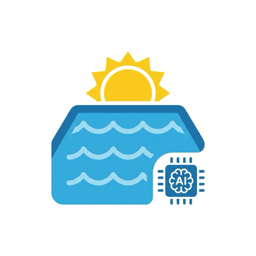
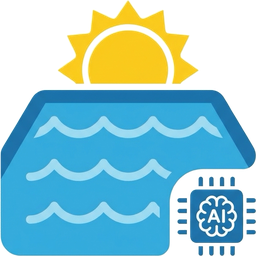
docs: README con ícono propio e historial hasta v0.0.10
- README: el logo apunta a brand/icon@2x.png del repo (la integración
  no está en brands.home-assistant.io)
- Historial de versiones: agregar 0.0.7 a 0.0.10
- brands_assets: actualizar con los PNG transparentes nuevos
- Eliminar submit_brand.sh: desde HA 2026.3 las integraciones custom
  ya no van al repo home-assistant/brands
- Guía de desarrollo: documentar la carpeta brand/

diff --git a/README.md b/README.md
@@ -1,7 +1,7 @@
 # SolarPool AI (Home Assistant Custom Component)
 
 <p align="center">
-  <img src="icon.png" alt="SolarPool AI Icon" width="128">
+  <img alt="SolarPool AI Icon" src="https://raw.githubusercontent.com/pabloantonelli/solar-pool-ai/main/custom_components/solarpool_ai/brand/icon@2x.png" width="128">
 </p>
 
 [![hacs_badge](https://img.shields.io/badge/HACS-Custom-41BDF5.svg)](https://github.com/hacs/integration)
@@ -203,6 +203,10 @@ stateDiagram-v2
 
 | Versión | Cambios principales |
 |---------|---------------------|
+| **0.0.10** | 🎨 **Ícono propio**: La integración incluye su ícono en `brand/` (PNG transparente); Home Assistant 2026.3+ lo muestra automáticamente. |
+| **0.0.9** | 🐛 **Bugfix**: La integración quedaba en "No cargado" en versiones recientes de Home Assistant (`TypeError: expected str, got list`). Los textos propios se movieron de `translations/` a `messages/`. |
+| **0.0.8** | 🐛 **Bugfix**: El estado del switch Master se mantiene después de reiniciar Home Assistant. |
+| **0.0.7** | ☁ **Nubosidad**: Sensor opcional de cobertura de nubes para calcular el UV efectivo. |
 | **0.0.6** | 📡 **Sensores Opcionales**: Mapeo de sensores UV/viento/temperatura independientes. ☀ **Estimación UV**: Cálculo automático basado en elevación solar. 🌍 **Traducciones JSON**: Migración a formato estándar de Home Assistant. |
 | **0.0.5** | 🐛 **Bugfix**: Corregida pérdida de propiedad de la bomba (ahora se apaga correctamente tras el calentamiento). |
 | **0.0.4** | 📊 Nuevo sensor de **Ganancia Diaria Total** (seguimiento térmico de la jornada). |

diff --git a/.agent/workflows/desarrollo.md b/.agent/workflows/desarrollo.md
@@ -90,6 +90,7 @@ custom_components/solarpool_ai/
 ├── config_flow.py         # UI de configuración
 ├── coordinator.py         # Lógica principal
 ├── translations.py        # Helper para leer traducciones
+├── brand/                 # Ícono de la integración (icon.png 256px, icon@2x.png 512px, PNG transparente)
 ├── messages/              # Textos propios del sistema (estados, templates) por idioma
 ├── translations/          # Traducciones estándar de HA (solo config/options)
 │   ├── en.json
